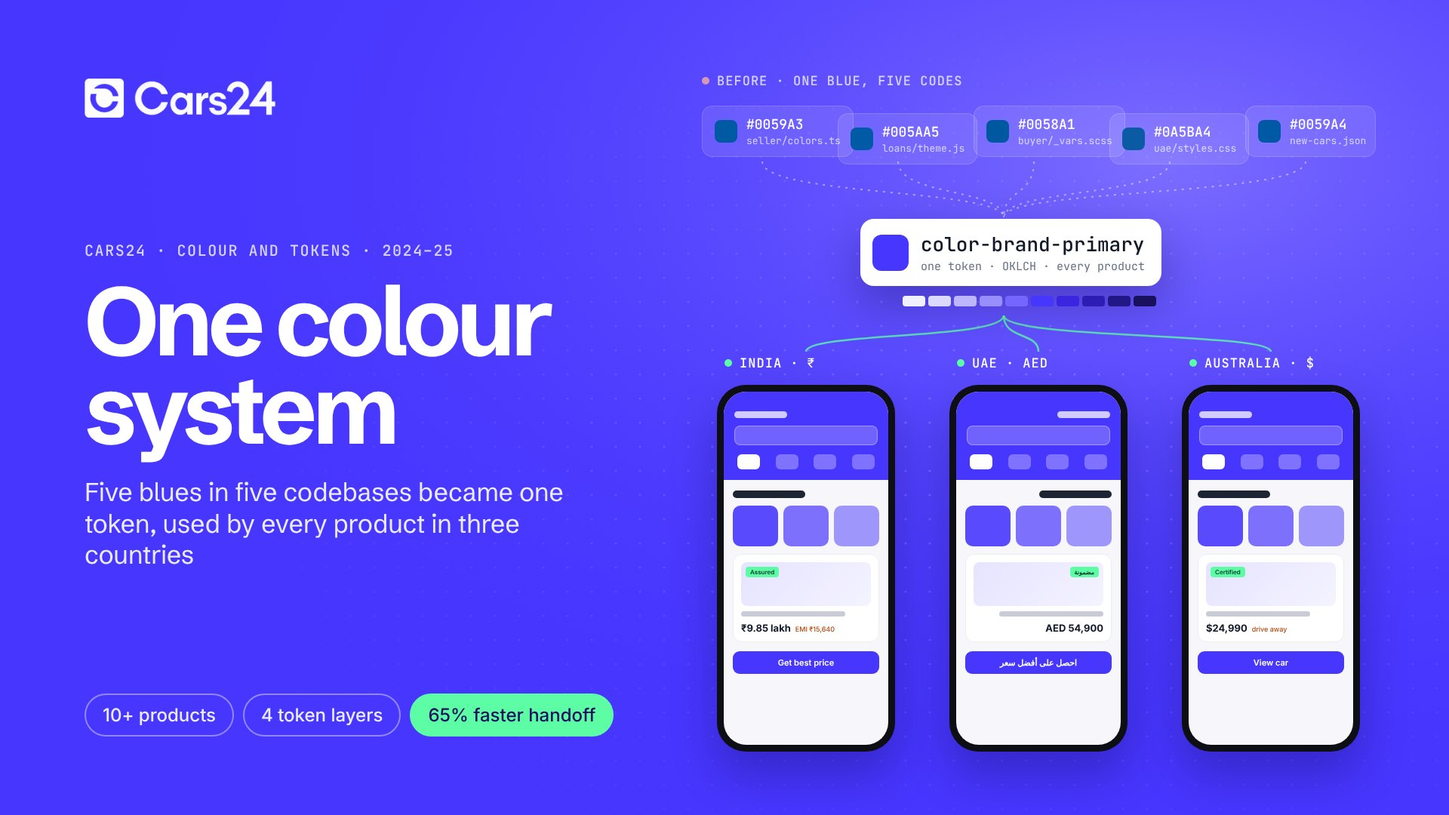
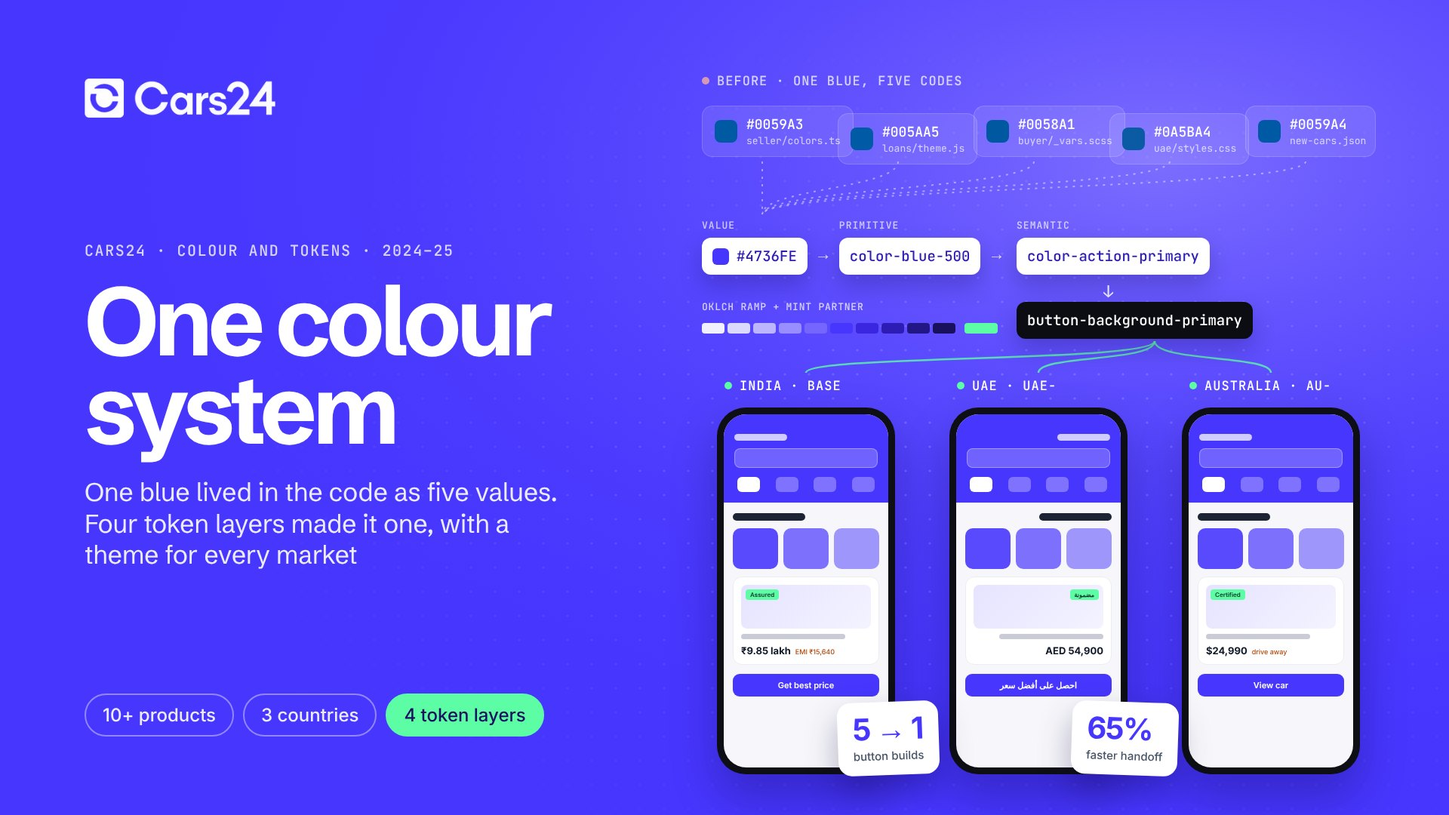
Reorder the case studies and show the real tokens on the colour card
Case studies now run: LEGO, Jarvis (Cardinal Health), Riyadh Air design
system, pattern library, colour system, governance, then Riyadh Air
design operations. The order drives Home, Work, Experience and each
case study's "Next case studies".

The colour system card now shows what's inside the case study: the five
old blues feed the real four-layer chain (#4736FE → color-blue-500 →
color-action-primary → button-background-primary), the OKLCH ramp with
its mint partner, the theme for each market (base, uae-, au-), and the
results (5 → 1 button builds, 65% faster handoff).

Claude-Session: https://claude.ai/code/session_01QAnL3MhnS9saJHDLA9Mmcj

Changed region(s): [[0.4688, 0.2139, 0.9375, 1.0], [0.0625, 0.5806, 0.4062, 0.7028], [0.1875, 0.825, 0.4375, 0.9167]]

diff --git a/tools/covers/cars24_cards.html b/tools/covers/cars24_cards.html
@@ -121,6 +121,17 @@ img { display: block; }
 .pp .blk2 { margin: 0 14px; position: relative; }
 .pp .blk2.wf { height: auto; padding: 10px; background: #fff; border: 1.5px dashed transparent; }
 .tagl { font: 500 15px "JetBrains Mono"; padding: 7px 12px; border-radius: 8px; background: #0b0d12; color: #9de7c8; white-space: nowrap; z-index: 4; }
+
+.lay { display: grid; grid-template-columns: repeat(4, auto); gap: 0; align-items: end; z-index: 3; }
+.lay > div { display: grid; gap: 8px; }
+.lay span { font: 500 13px "JetBrains Mono"; letter-spacing: .08em; text-transform: uppercase; opacity: .7; }
+.lay code { font: 500 19px "JetBrains Mono"; padding: 12px 14px; border-radius: 12px; background: #fff; color: #2e1db4; white-space: nowrap; box-shadow: 0 14px 30px rgb(10 0 60 / .22); display: flex; align-items: center; gap: 10px; }
+.lay code i { width: 22px; height: 22px; border-radius: 6px; background: #4736fe; }
+.lay .ar { align-self: end; padding: 0 10px 14px; font: 500 22px Inter; opacity: .8; }
+.kpi { border-radius: 18px; background: #fff; color: #101828; padding: 16px 20px; box-shadow: 0 20px 44px rgb(10 0 60 / .3); z-index: 4; }
+.kpi b { display: block; font: 700 40px/1 Inter; letter-spacing: -.04em; color: #4736fe; }
+.kpi span { display: block; font: 500 15px Inter; color: #475467; margin-top: 6px; }
+.tagk { font: 500 13px "JetBrains Mono"; padding: 5px 9px; border-radius: 6px; background: #0b0d12; color: #5dfda6; white-space: nowrap; z-index: 4; }
 </style>
 </head>
 <body>
@@ -138,8 +149,8 @@ img { display: block; }
   <svg class="pat" aria-hidden="true" id="tlines" style="z-index:1"></svg>
   <div class="col">
     <img class="logo" src="../../assets/logos/wordmark-cars24.png" alt="">
-    <div class="mid"><p class="eyebrow">CARS24 · Colour and tokens · 2024–25</p><h1>One colour system</h1><p class="sub">Five blues in five codebases became one token, used by every product in three countries</p></div>
-    <div class="row"><span class="chip" style="border-color:rgb(255 255 255 / .45)">10+ products</span><span class="chip" style="border-color:rgb(255 255 255 / .45)">4 token layers</span><span class="chip solid" style="background:#5dfda6;border-color:#5dfda6;color:#1a1060">65% faster handoff</span></div>
+    <div class="mid"><p class="eyebrow">CARS24 · Colour and tokens · 2024–25</p><h1>One colour system</h1><p class="sub">One blue lived in the code as five values. Four token layers made it one, with a theme for every market</p></div>
+    <div class="row"><span class="chip" style="border-color:rgb(255 255 255 / .45)">10+ products</span><span class="chip" style="border-color:rgb(255 255 255 / .45)">3 countries</span><span class="chip solid" style="background:#5dfda6;border-color:#5dfda6;color:#1a1060">4 token layers</span></div>
   </div>
   <div class="mkt" style="left:930px;top:96px;opacity:.75"><i style="background:#ffb4a1"></i>Before · one blue, five codes</div>
   <div class="hex" style="left:930px;top:140px"><i style="background:#0059A3"></i><div><b>#0059A3</b><small>seller/colors.ts</small></div></div>
@@ -147,14 +158,30 @@ img { display: block; }
   <div class="hex" style="left:1290px;top:140px"><i style="background:#0058A1"></i><div><b>#0058A1</b><small>buyer/_vars.scss</small></div></div>
   <div class="hex" style="left:1470px;top:150px"><i style="background:#0A5BA4"></i><div><b>#0A5BA4</b><small>uae/styles.css</small></div></div>
   <div class="hex" style="left:1650px;top:140px;padding-right:12px"><i style="background:#0059A4"></i><div><b>#0059A4</b><small>new-cars.json</small></div></div>
-  <div class="tokpill" style="left:1140px;top:290px"><i></i><div><b>color-brand-primary</b><small>one token · OKLCH · every product</small></div></div>
-  <div class="mramp" id="mramp" style="left:1196px;top:392px"></div>
-  <div class="mkt" style="left:960px;top:470px"><i></i>India · ₹</div>
-  <div class="mkt" style="left:1268px;top:470px"><i></i>UAE · AED</div>
-  <div class="mkt" style="left:1576px;top:470px"><i></i>Australia · $</div>
-  <div class="mp" style="left:950px;top:510px"><div class="sc"><div class="hd"><div class="loc"></div><div class="srch"></div><div class="tabs"><i></i><i></i><i></i><i></i></div></div><div class="bd"><div class="h"></div><div class="tiles"><i></i><i></i><i></i></div><div class="lc"><div class="im"><b>Assured</b></div><div class="t"></div><div class="pr">₹9.85 lakh<span>EMI ₹15,640</span></div></div><div class="cta">Get best price</div></div></div></div>
-  <div class="mp" style="left:1258px;top:510px"><div class="sc"><div class="hd"><div class="loc" style="margin-left:auto"></div><div class="srch"></div><div class="tabs"><i></i><i></i><i></i><i></i></div></div><div class="bd"><div class="h" style="margin-left:auto"></div><div class="tiles"><i></i><i></i><i></i></div><div class="lc" dir="rtl"><div class="im"><b style="left:auto;right:6px">مضمونة</b></div><div class="t"></div><div class="pr" style="font-family:Inter">AED 54,900</div></div><div class="cta">احصل على أفضل سعر</div></div></div></div>
-  <div class="mp" style="left:1566px;top:510px"><div class="sc"><div class="hd"><div class="loc"></div><div class="srch"></div><div class="tabs"><i></i><i></i><i></i><i></i></div></div><div class="bd"><div class="h"></div><div class="tiles"><i></i><i></i><i></i></div><div class="lc"><div class="im"><b>Certified</b></div><div class="t"></div><div class="pr">$24,990<span>drive away</span></div></div><div class="cta">View car</div></div></div></div>
+  <div class="lay" style="left:930px;top:290px;color:#fff">
+    <div><span>Value</span><code><i></i>#4736FE</code></div><div class="ar">→</div>
+    <div><span>Primitive</span><code>color-blue-500</code></div><div class="ar">→</div>
+  </div>
+  <div class="lay" style="left:1300px;top:290px;color:#fff">
+    <div style="visibility:hidden"><span>x</span><code>x</code></div>
+  </div>
+  <div class="lay" style="left:1347px;top:290px;color:#fff">
+    <div><span>Semantic</span><code>color-action-primary</code></div>
+  </div>
+  <div class="mkt" style="left:1462px;top:372px;font-size:22px;opacity:.85">↓</div>
+  <div class="lay" style="left:1347px;top:400px;color:#fff">
+    <div><code style="color:#fff;background:#0b0d12">button-background-primary</code></div>
+  </div>
+  <div class="mkt" style="left:930px;top:398px;font-size:13px;opacity:.75">OKLCH ramp + mint partner</div>
+  <div class="mramp" id="mramp" style="left:930px;top:428px"></div>
+  <div class="mkt" style="left:960px;top:500px"><i></i>India · base</div>
+  <div class="mkt" style="left:1268px;top:500px"><i></i>UAE · uae-</div>
+  <div class="mkt" style="left:1576px;top:500px"><i></i>Australia · au-</div>
+  <div class="mp" style="left:950px;top:540px"><div class="sc"><div class="hd"><div class="loc"></div><div class="srch"></div><div class="tabs"><i></i><i></i><i></i><i></i></div></div><div class="bd"><div class="h"></div><div class="tiles"><i></i><i></i><i></i></div><div class="lc"><div class="im"><b>Assured</b></div><div class="t"></div><div class="pr">₹9.85 lakh<span>EMI ₹15,640</span></div></div><div class="cta">Get best price</div></div></div></div>
+  <div class="mp" style="left:1258px;top:540px"><div class="sc"><div class="hd"><div class="loc" style="margin-left:auto"></div><div class="srch"></div><div class="tabs"><i></i><i></i><i></i><i></i></div></div><div class="bd"><div class="h" style="margin-left:auto"></div><div class="tiles"><i></i><i></i><i></i></div><div class="lc" dir="rtl"><div class="im"><b style="left:auto;right:6px">مضمونة</b></div><div class="t"></div><div class="pr" style="font-family:Inter">AED 54,900</div></div><div class="cta">احصل على أفضل سعر</div></div></div></div>
+  <div class="mp" style="left:1566px;top:540px"><div class="sc"><div class="hd"><div class="loc"></div><div class="srch"></div><div class="tabs"><i></i><i></i><i></i><i></i></div></div><div class="bd"><div class="h"></div><div class="tiles"><i></i><i></i><i></i></div><div class="lc"><div class="im"><b>Certified</b></div><div class="t"></div><div class="pr">$24,990<span>drive away</span></div></div><div class="cta">View car</div></div></div></div>
+  <div class="kpi" style="left:1110px;top:930px;transform:rotate(-2deg)"><b>5 → 1</b><span>button builds</span></div>
+  <div class="kpi" style="left:1420px;top:930px;transform:rotate(2deg)"><b>65%</b><span>faster handoff</span></div>
 </section>
 
 <!-- ======================= Governance ======================= -->
@@ -254,11 +281,11 @@ function el(svg, tag, a) { var e = document.createElementNS(NS, tag); for (var k
 /* token story: five codes → one token → three markets */
 (function () {
   var r = document.getElementById("mramp");
-  if (r) r.innerHTML = steps.map(function (st) { return '<i style="background:' + st[1] + '"></i>'; }).join("");
+  if (r) r.innerHTML = steps.map(function (st) { return '<i style="background:' + st[1] + '"></i>'; }).join("") + '<i style="background:#5dfda6;width:44px;margin-left:8px"></i>';
   var s = document.getElementById("tlines"), g = el(s, "g", { fill: "none", stroke: "#fff", "stroke-width": "2", "stroke-opacity": ".45", "stroke-dasharray": "3 7" });
-  [1010, 1190, 1370, 1550, 1730].forEach(function (x) { el(g, "path", { d: "M" + x + " 214 C" + x + " 260 1330 250 1330 288" }); });
+  [1010, 1190, 1370, 1550, 1730].forEach(function (x) { el(g, "path", { d: "M" + x + " 214 C" + x + " 250 1010 250 1010 284" }); });
   var g2 = el(s, "g", { fill: "none", stroke: "#5dfda6", "stroke-width": "2.5", "stroke-opacity": ".8" });
-  [1068, 1376, 1684].forEach(function (x) { el(g2, "path", { d: "M1330 418 C1330 450 " + x + " 440 " + x + " 466" }); });
+  [1068, 1376, 1684].forEach(function (x) { el(g2, "path", { d: "M1530 452 C1530 480 " + x + " 470 " + x + " 494" }); });
 })();
 /* pattern library: link families to the page */
 (function () {

diff --git a/index.html b/index.html
@@ -51,19 +51,7 @@
 <div class="trust"><p>Built by the team behind the design systems at</p><ul><li><img src="assets/logos/wordmark-jpmc.png" alt="JPMorgan Chase" style="height:17px" loading="lazy"></li><li><img src="assets/logos/wordmark-ibm.png" alt="IBM" style="height:24px" loading="lazy"></li><li><img src="assets/logos/wordmark-cars24.png" alt="CARS24" style="height:20px" loading="lazy"></li></ul></div>
 
 <h2 class="label" id="work">select work:</h2>
-<div class="frames"><a class="frame" href="work/cars24-tokens.html" style="--f:#4736fe;--ft:#ffffff">
-      <div class="frame-media"><img src="assets/work/tokens/card.jpg" alt="" loading="lazy" width="1800" height="1238"></div>
-      <h3>CARS24: one colour system for 10+ products in three countries</h3>
-      <div class="frame-meta"><span class="kind">Colour, Tokens, Architecture</span></div>
-    </a><a class="frame" href="work/cars24-governance.html" style="--f:#f1efff;--ft:#0b0d12">
-      <div class="frame-media"><img src="assets/work/governance/card.jpg" alt="" loading="lazy" width="1800" height="1238"></div>
-      <h3>CARS24: how the design system team stopped being the bottleneck</h3>
-      <div class="frame-meta"><span class="kind">Governance, Operations</span></div>
-    </a><a class="frame" href="work/cars24-pattern-library.html" style="--f:#9de7c8;--ft:#0b0d12">
-      <div class="frame-media"><img src="assets/work/patterns/card.jpg" alt="" loading="lazy" width="1800" height="1238"></div>
-      <h3>CARS24: a pattern library that builds pages from tested blocks</h3>
-      <div class="frame-meta"><span class="kind">Patterns, CMS, Adoption</span></div>
-    </a><a class="frame" href="work/cars24-lego.html" style="--f:#4736fe;--ft:#ffffff">
+<div class="frames"><a class="frame" href="work/cars24-lego.html" style="--f:#4736fe;--ft:#ffffff">
       <div class="frame-media"><img src="assets/work/cars24-lego/cover.jpg" alt="" loading="lazy" width="1800" height="1238"></div>
       <h3>CARS24: LEGO, a component system teams chose to build with</h3>
       <div class="frame-meta"><span class="kind">Components, Research, Adoption</span></div>
@@ -75,6 +63,18 @@
       <div class="frame-media"><img src="assets/work/ibm-riyadh-air/cover.jpg" alt="" loading="lazy" width="1800" height="1238"></div>
       <h3>Riyadh Air: a design system for an airline that started from zero</h3>
       <div class="frame-meta"><span class="kind">Foundations, Components, Localisation</span></div>
+    </a><a class="frame" href="work/cars24-pattern-library.html" style="--f:#9de7c8;--ft:#0b0d12">
+      <div class="frame-media"><img src="assets/work/patterns/card.jpg" alt="" loading="lazy" width="1800" height="1238"></div>
+      <h3>CARS24: a pattern library that builds pages from tested blocks</h3>
+      <div class="frame-meta"><span class="kind">Patterns, CMS, Adoption</span></div>
+    </a><a class="frame" href="work/cars24-tokens.html" style="--f:#4736fe;--ft:#ffffff">
+      <div class="frame-media"><img src="assets/work/tokens/card.jpg" alt="" loading="lazy" width="1800" height="1238"></div>
+      <h3>CARS24: one colour system for 10+ products in three countries</h3>
+      <div class="frame-meta"><span class="kind">Colour, Tokens, Architecture</span></div>
+    </a><a class="frame" href="work/cars24-governance.html" style="--f:#f1efff;--ft:#0b0d12">
+      <div class="frame-media"><img src="assets/work/governance/card.jpg" alt="" loading="lazy" width="1800" height="1238"></div>
+      <h3>CARS24: how the design system team stopped being the bottleneck</h3>
+      <div class="frame-meta"><span class="kind">Governance, Operations</span></div>
     </a><a class="frame" href="work/ibm-riyadh-air-ops.html" style="--f:#dad8fc;--ft:#0b0d12">
       <div class="frame-media"><img src="assets/work/ibm-riyadh-air-ops/cover.jpg" alt="" loading="lazy" width="1800" height="1238"></div>
       <h3>Riyadh Air: three companies, one design system, and who decides what ships</h3>
@@ -107,7 +107,7 @@
       <header><span class="ltile"><img src="assets/logos/cars24.png" alt="CARS24" width="200" height="200" loading="lazy"></span><div><h3>CARS24</h3><p>Design Systems Lead · 2024–25</p></div></header>
       <p class="xp-stat"><strong>10+</strong> products on one token system, in 3 countries</p>
       <p class="xp-what">Led the design system for 70+ designers and 200+ engineers: a new palette and token architecture for the rebrand, governance, and a pattern library.</p>
-      <nav aria-label="CARS24 projects"><a href="work/cars24-tokens.html">One colour system for 10+ products in three countries</a><a href="work/cars24-governance.html">How the design system team stopped being the bottleneck</a><a href="work/cars24-pattern-library.html">A pattern library that builds pages from tested blocks</a><a href="work/cars24-lego.html">LEGO, a component system teams chose to build with</a><a href="work/cars24-consumer.html">A token-driven component library for consumer products</a><a href="work/cars24-internal-tools.html">A design system for internal tools at enterprise scale</a></nav>
+      <nav aria-label="CARS24 projects"><a href="work/cars24-lego.html">LEGO, a component system teams chose to build with</a><a href="work/cars24-pattern-library.html">A pattern library that builds pages from tested blocks</a><a href="work/cars24-tokens.html">One colour system for 10+ products in three countries</a><a href="work/cars24-governance.html">How the design system team stopped being the bottleneck</a><a href="work/cars24-consumer.html">A token-driven component library for consumer products</a><a href="work/cars24-internal-tools.html">A design system for internal tools at enterprise scale</a></nav>
     </article><article class="xp">
       <header><span class="ltile"><img src="assets/logos/ibm.png" alt="IBM" width="200" height="200" loading="lazy"></span><div><h3>IBM</h3><p>UX Designer, design systems · 2021–24</p></div></header>
       <p class="xp-stat"><strong>71</strong> components for an airline, 40+ for a pharmacy storefront</p>

diff --git a/work.html b/work.html
@@ -36,19 +36,7 @@
   </aside><main id="main" class="content">
 <h1 class="statement" id="case-studies">featured work</h1>
 <p class="sub muted">Full, interactive case studies: the problem, the decisions and the numbers.</p>
-<div class="frames" style="margin-top:20px"><a class="frame" href="work/cars24-tokens.html" style="--f:#4736fe;--ft:#ffffff">
-      <div class="frame-media"><img src="assets/work/tokens/card.jpg" alt="" loading="lazy" width="1800" height="1238"></div>
-      <h3>CARS24: one colour system for 10+ products in three countries</h3>
-      <div class="frame-meta"><span class="kind">Colour, Tokens, Architecture</span><span>2024–25</span></div>
-    </a><a class="frame" href="work/cars24-governance.html" style="--f:#f1efff;--ft:#0b0d12">
-      <div class="frame-media"><img src="assets/work/governance/card.jpg" alt="" loading="lazy" width="1800" height="1238"></div>
-      <h3>CARS24: how the design system team stopped being the bottleneck</h3>
-      <div class="frame-meta"><span class="kind">Governance, Operations</span><span>2025</span></div>
-    </a><a class="frame" href="work/cars24-pattern-library.html" style="--f:#9de7c8;--ft:#0b0d12">
-      <div class="frame-media"><img src="assets/work/patterns/card.jpg" alt="" loading="lazy" width="1800" height="1238"></div>
-      <h3>CARS24: a pattern library that builds pages from tested blocks</h3>
-      <div class="frame-meta"><span class="kind">Patterns, CMS, Adoption</span><span>2025</span></div>
-    </a><a class="frame" href="work/cars24-lego.html" style="--f:#4736fe;--ft:#ffffff">
+<div class="frames" style="margin-top:20px"><a class="frame" href="work/cars24-lego.html" style="--f:#4736fe;--ft:#ffffff">
       <div class="frame-media"><img src="assets/work/cars24-lego/cover.jpg" alt="" loading="lazy" width="1800" height="1238"></div>
       <h3>CARS24: LEGO, a component system teams chose to build with</h3>
       <div class="frame-meta"><span class="kind">Components, Research, Adoption</span><span>2025</span></div>
@@ -60,6 +48,18 @@
       <div class="frame-media"><img src="assets/work/ibm-riyadh-air/cover.jpg" alt="" loading="lazy" width="1800" height="1238"></div>
       <h3>Riyadh Air: a design system for an airline that started from zero</h3>
       <div class="frame-meta"><span class="kind">Foundations, Components, Localisation</span><span>2023–24</span></div>
+    </a><a class="frame" href="work/cars24-pattern-library.html" style="--f:#9de7c8;--ft:#0b0d12">
+      <div class="frame-media"><img src="assets/work/patterns/card.jpg" alt="" loading="lazy" width="1800" height="1238"></div>
+      <h3>CARS24: a pattern library that builds pages from tested blocks</h3>
+      <div class="frame-meta"><span class="kind">Patterns, CMS, Adoption</span><span>2025</span></div>
+    </a><a class="frame" href="work/cars24-tokens.html" style="--f:#4736fe;--ft:#ffffff">
+      <div class="frame-media"><img src="assets/work/tokens/card.jpg" alt="" loading="lazy" width="1800" height="1238"></div>
+      <h3>CARS24: one colour system for 10+ products in three countries</h3>
+      <div class="frame-meta"><span class="kind">Colour, Tokens, Architecture</span><span>2024–25</span></div>
+    </a><a class="frame" href="work/cars24-governance.html" style="--f:#f1efff;--ft:#0b0d12">
+      <div class="frame-media"><img src="assets/work/governance/card.jpg" alt="" loading="lazy" width="1800" height="1238"></div>
+      <h3>CARS24: how the design system team stopped being the bottleneck</h3>
+      <div class="frame-meta"><span class="kind">Governance, Operations</span><span>2025</span></div>
     </a><a class="frame" href="work/ibm-riyadh-air-ops.html" style="--f:#dad8fc;--ft:#0b0d12">
       <div class="frame-media"><img src="assets/work/ibm-riyadh-air-ops/cover.jpg" alt="" loading="lazy" width="1800" height="1238"></div>
       <h3>Riyadh Air: three companies, one design system, and who decides what ships</h3>

diff --git a/clients.html b/clients.html
@@ -43,7 +43,7 @@
 <div class="xrows"><article class="xrow" id="cars24">
       <header><span class="ltile" style="--s:88px"><img src="assets/logos/cars24.png" alt="CARS24" width="200" height="200" loading="lazy"></span><div><h2>CARS24</h2><p>Design Systems Lead · 2024–25</p><p class="muted">One of India's largest platforms for buying and selling used cars, with loans, insurance and servicing, in India, the UAE and Australia.</p></div></header>
       <div class="xfacts"><div><strong>70+ / 200+</strong><span>designers and engineers on one system</span></div><div><strong>10+</strong><span>product lines, 3 countries</span></div><div><strong>65%</strong><span>faster handoff after the token rebuild</span></div></div>
-      <div class="xprojs"><a href="work/cars24-tokens.html"><img src="assets/work/tokens/card.jpg" alt="" loading="lazy"><span>One colour system for 10+ products in three countries</span></a><a href="work/cars24-governance.html"><img src="assets/work/governance/card.jpg" alt="" loading="lazy"><span>How the design system team stopped being the bottleneck</span></a><a href="work/cars24-pattern-library.html"><img src="assets/work/patterns/card.jpg" alt="" loading="lazy"><span>A pattern library that builds pages from tested blocks</span></a><a href="work/cars24-lego.html"><img src="assets/work/cars24-lego/cover.jpg" alt="" loading="lazy"><span>LEGO, a component system teams chose to build with</span></a><a href="work/cars24-consumer.html"><img src="assets/work/cars24-consumer/cover.jpg" alt="" loading="lazy"><span>A token-driven component library for consumer products</span></a><a href="work/cars24-internal-tools.html"><img src="assets/work/cars24-internal-tools/cover.jpg" alt="" loading="lazy"><span>A design system for internal tools at enterprise scale</span></a></div>
+      <div class="xprojs"><a href="work/cars24-lego.html"><img src="assets/work/cars24-lego/cover.jpg" alt="" loading="lazy"><span>LEGO, a component system teams chose to build with</span></a><a href="work/cars24-pattern-library.html"><img src="assets/work/patterns/card.jpg" alt="" loading="lazy"><span>A pattern library that builds pages from tested blocks</span></a><a href="work/cars24-tokens.html"><img src="assets/work/tokens/card.jpg" alt="" loading="lazy"><span>One colour system for 10+ products in three countries</span></a><a href="work/cars24-governance.html"><img src="assets/work/governance/card.jpg" alt="" loading="lazy"><span>How the design system team stopped being the bottleneck</span></a><a href="work/cars24-consumer.html"><img src="assets/work/cars24-consumer/cover.jpg" alt="" loading="lazy"><span>A token-driven component library for consumer products</span></a><a href="work/cars24-internal-tools.html"><img src="assets/work/cars24-internal-tools/cover.jpg" alt="" loading="lazy"><span>A design system for internal tools at enterprise scale</span></a></div>
     </article><article class="xrow" id="ibm">
       <header><span class="ltile" style="--s:88px"><img src="assets/logos/ibm.png" alt="IBM" width="200" height="200" loading="lazy"></span><div><h2>IBM</h2><p>UX Designer, design systems · 2021–24</p><p class="muted">Enterprise software and consulting. Design systems for IBM clients including Cardinal Health and Riyadh Air.</p></div></header>
       <div class="xfacts"><div><strong>3.5 yrs</strong><span>building and running design systems</span></div><div><strong>40+ / 71</strong><span>components for Cardinal Health and Riyadh Air</span></div><div><strong>1 → 7</strong><span>people on the Cardinal Health system in a year</span></div></div>

diff --git a/work/ibm-cardinal-health.html b/work/ibm-cardinal-health.html
@@ -166,7 +166,7 @@
   <section class="sc-end"><div class="sc-in">
     <p class="sc-credit">Led by Aniket Pandey as design system owner at IBM (2022–23), with two IBM India designers, the IBM Columbus studio, and Cardinal Health's product, engineering and QA teams. This is IBM client work done as an employee, not Layer One client work. Images belong to Cardinal Health and IBM and are shown for portfolio purposes; screens use sample data. Tickets and changelog entries marked illustrative are examples in the format the team used.</p>
     <h2 class="nx-h">Next case studies</h2>
-    <div class="nxs"><a class="nx" href="ibm-riyadh-air.html" style="--f:#240852;--ft:#ffffff"><img src="../assets/work/ibm-riyadh-air/cover.jpg" alt="" loading="lazy"><span>Foundations, Components, Localisation</span><h3>A design system for an airline that started from zero</h3></a><a class="nx" href="ibm-riyadh-air-ops.html" style="--f:#dad8fc;--ft:#0b0d12"><img src="../assets/work/ibm-riyadh-air-ops/cover.jpg" alt="" loading="lazy"><span>Governance, Contribution, Rituals</span><h3>Three companies, one design system, and who decides what ships</h3></a></div>
+    <div class="nxs"><a class="nx" href="ibm-riyadh-air.html" style="--f:#240852;--ft:#ffffff"><img src="../assets/work/ibm-riyadh-air/cover.jpg" alt="" loading="lazy"><span>Foundations, Components, Localisation</span><h3>A design system for an airline that started from zero</h3></a><a class="nx" href="cars24-pattern-library.html" style="--f:#9de7c8;--ft:#0b0d12"><img src="../assets/work/patterns/card.jpg" alt="" loading="lazy"><span>Patterns, CMS, Adoption</span><h3>A pattern library that builds pages from tested blocks</h3></a></div>
   </div></section>
 </main>
 <dialog class="lightbox" data-lb><button type="button" class="lb-x" aria-label="Close">Close</button><img alt=""><p></p></dialog><script src="../assets/site.js?v=e943e2aa" defer></script>

diff --git a/work/ibm-riyadh-air-ops.html b/work/ibm-riyadh-air-ops.html
@@ -89,7 +89,7 @@
   <section class="sc-end"><div class="sc-in">
     <p class="sc-credit">Told by Aniket Pandey, who worked on this as a design system designer at IBM (2023–24), with IBM design and engineering, Riyadh Air's design team and business owners, and Publicis Sapient. “We” is the IBM design system team. This is IBM client work done as an employee, not Layer One client work. Diagrams belong to Riyadh Air and IBM and are shown for portfolio purposes.</p>
     <h2 class="nx-h">Next case studies</h2>
-    <div class="nxs"><a class="nx" href="cars24-tokens.html" style="--f:#4736fe;--ft:#ffffff"><img src="../assets/work/tokens/card.jpg" alt="" loading="lazy"><span>Colour, Tokens, Architecture</span><h3>One colour system for 10+ products in three countries</h3></a><a class="nx" href="cars24-governance.html" style="--f:#f1efff;--ft:#0b0d12"><img src="../assets/work/governance/card.jpg" alt="" loading="lazy"><span>Governance, Operations</span><h3>How the design system team stopped being the bottleneck</h3></a></div>
+    <div class="nxs"><a class="nx" href="cars24-lego.html" style="--f:#4736fe;--ft:#ffffff"><img src="../assets/work/cars24-lego/cover.jpg" alt="" loading="lazy"><span>Components, Research, Adoption</span><h3>LEGO, a component system teams chose to build with</h3></a><a class="nx" href="ibm-cardinal-health.html" style="--f:#e41f35;--ft:#ffffff"><img src="../assets/work/ibm-cardinal-health/cover.jpg" alt="" loading="lazy"><span>Foundations, Tokens, Components, Operations</span><h3>Jarvis, the design system behind a new pharmacy storefront</h3></a></div>
   </div></section>
 </main>
 <dialog class="lightbox" data-lb><button type="button" class="lb-x" aria-label="Close">Close</button><img alt=""><p></p></dialog><script src="../assets/site.js?v=e943e2aa" defer></script>

diff --git a/work/ibm-riyadh-air.html b/work/ibm-riyadh-air.html
@@ -155,7 +155,7 @@
   <section class="sc-end"><div class="sc-in">
     <p class="sc-credit">Aniket Pandey worked on this as a design system designer at IBM (2023–24), with the IBM design team, IBM engineering, Publicis Sapient and Riyadh Air's product, design and engineering teams. This is IBM client work done as an employee, not Layer One client work. Images belong to Riyadh Air and IBM and are shown for portfolio purposes.</p>
     <h2 class="nx-h">Next case studies</h2>
-    <div class="nxs"><a class="nx" href="ibm-riyadh-air-ops.html" style="--f:#dad8fc;--ft:#0b0d12"><img src="../assets/work/ibm-riyadh-air-ops/cover.jpg" alt="" loading="lazy"><span>Governance, Contribution, Rituals</span><h3>Three companies, one design system, and who decides what ships</h3></a><a class="nx" href="cars24-tokens.html" style="--f:#4736fe;--ft:#ffffff"><img src="../assets/work/tokens/card.jpg" alt="" loading="lazy"><span>Colour, Tokens, Architecture</span><h3>One colour system for 10+ products in three countries</h3></a></div>
+    <div class="nxs"><a class="nx" href="cars24-pattern-library.html" style="--f:#9de7c8;--ft:#0b0d12"><img src="../assets/work/patterns/card.jpg" alt="" loading="lazy"><span>Patterns, CMS, Adoption</span><h3>A pattern library that builds pages from tested blocks</h3></a><a class="nx" href="cars24-tokens.html" style="--f:#4736fe;--ft:#ffffff"><img src="../assets/work/tokens/card.jpg" alt="" loading="lazy"><span>Colour, Tokens, Architecture</span><h3>One colour system for 10+ products in three countries</h3></a></div>
   </div></section>
 </main>
 <dialog class="lightbox" data-lb><button type="button" class="lb-x" aria-label="Close">Close</button><img alt=""><p></p></dialog><script src="../assets/site.js?v=e943e2aa" defer></script>

diff --git a/work/cars24-pattern-library.html b/work/cars24-pattern-library.html
@@ -106,7 +106,7 @@
     <div class="cs-cta"><div><h2>Need this for your product?</h2><p>We do this work for product teams now. Start with a two-week audit.</p></div>
       <div class="btn-row"><a class="pill pill--accent" href="../pricing.html">See pricing</a><a class="pill" href="../contact.html">Start a project</a></div></div>
     <h2 class="nx-h">Next case studies</h2>
-    <div class="nxs"><a class="nx" href="cars24-lego.html" style="--f:#4736fe;--ft:#ffffff"><img src="../assets/work/cars24-lego/cover.jpg" alt="" loading="lazy"><span>Components, Research, Adoption</span><h3>LEGO, a component system teams chose to build with</h3></a><a class="nx" href="ibm-cardinal-health.html" style="--f:#e41f35;--ft:#ffffff"><img src="../assets/work/ibm-cardinal-health/cover.jpg" alt="" loading="lazy"><span>Foundations, Tokens, Components, Operations</span><h3>Jarvis, the design system behind a new pharmacy storefront</h3></a></div>
+    <div class="nxs"><a class="nx" href="cars24-tokens.html" style="--f:#4736fe;--ft:#ffffff"><img src="../assets/work/tokens/card.jpg" alt="" loading="lazy"><span>Colour, Tokens, Architecture</span><h3>One colour system for 10+ products in three countries</h3></a><a class="nx" href="cars24-governance.html" style="--f:#f1efff;--ft:#0b0d12"><img src="../assets/work/governance/card.jpg" alt="" loading="lazy"><span>Governance, Operations</span><h3>How the design system team stopped being the bottleneck</h3></a></div>
   </section>
 </main>
 <dialog class="lightbox" data-lb><button type="button" class="lb-x" aria-label="Close">Close</button><img alt=""><p></p></dialog><script src="../assets/site.js?v=e943e2aa" defer></script>

diff --git a/work/cars24-tokens.html b/work/cars24-tokens.html
@@ -128,7 +128,7 @@
     <div class="cs-cta"><div><h2>Need this for your product?</h2><p>We do this work for product teams now. Start with a two-week audit.</p></div>
       <div class="btn-row"><a class="pill pill--accent" href="../pricing.html">See pricing</a><a class="pill" href="../contact.html">Start a project</a></div></div>
     <h2 class="nx-h">Next case studies</h2>
-    <div class="nxs"><a class="nx" href="cars24-governance.html" style="--f:#f1efff;--ft:#0b0d12"><img src="../assets/work/governance/card.jpg" alt="" loading="lazy"><span>Governance, Operations</span><h3>How the design system team stopped being the bottleneck</h3></a><a class="nx" href="cars24-pattern-library.html" style="--f:#9de7c8;--ft:#0b0d12"><img src="../assets/work/patterns/card.jpg" alt="" loading="lazy"><span>Patterns, CMS, Adoption</span><h3>A pattern library that builds pages from tested blocks</h3></a></div>
+    <div class="nxs"><a class="nx" href="cars24-governance.html" style="--f:#f1efff;--ft:#0b0d12"><img src="../assets/work/governance/card.jpg" alt="" loading="lazy"><span>Governance, Operations</span><h3>How the design system team stopped being the bottleneck</h3></a><a class="nx" href="ibm-riyadh-air-ops.html" style="--f:#dad8fc;--ft:#0b0d12"><img src="../assets/work/ibm-riyadh-air-ops/cover.jpg" alt="" loading="lazy"><span>Governance, Contribution, Rituals</span><h3>Three companies, one design system, and who decides what ships</h3></a></div>
   </section>
 </main>
 <dialog class="lightbox" data-lb><button type="button" class="lb-x" aria-label="Close">Close</button><img alt=""><p></p></dialog><script src="../assets/site.js?v=e943e2aa" defer></script>

diff --git a/work/cars24-governance.html b/work/cars24-governance.html
@@ -89,7 +89,7 @@
     <div class="cs-cta"><div><h2>Need this for your product?</h2><p>We do this work for product teams now. Start with a two-week audit.</p></div>
       <div class="btn-row"><a class="pill pill--accent" href="../pricing.html">See pricing</a><a class="pill" href="../contact.html">Start a project</a></div></div>
     <h2 class="nx-h">Next case studies</h2>
-    <div class="nxs"><a class="nx" href="cars24-pattern-library.html" style="--f:#9de7c8;--ft:#0b0d12"><img src="../assets/work/patterns/card.jpg" alt="" loading="lazy"><span>Patterns, CMS, Adoption</span><h3>A pattern library that builds pages from tested blocks</h3></a><a class="nx" href="cars24-lego.html" style="--f:#4736fe;--ft:#ffffff"><img src="../assets/work/cars24-lego/cover.jpg" alt="" loading="lazy"><span>Components, Research, Adoption</span><h3>LEGO, a component system teams chose to build with</h3></a></div>
+    <div class="nxs"><a class="nx" href="ibm-riyadh-air-ops.html" style="--f:#dad8fc;--ft:#0b0d12"><img src="../assets/work/ibm-riyadh-air-ops/cover.jpg" alt="" loading="lazy"><span>Governance, Contribution, Rituals</span><h3>Three companies, one design system, and who decides what ships</h3></a><a class="nx" href="cars24-lego.html" style="--f:#4736fe;--ft:#ffffff"><img src="../assets/work/cars24-lego/cover.jpg" alt="" loading="lazy"><span>Components, Research, Adoption</span><h3>LEGO, a component system teams chose to build with</h3></a></div>
   </section>
 </main>
 <dialog class="lightbox" data-lb><button type="button" class="lb-x" aria-label="Close">Close</button><img alt=""><p></p></dialog><script src="../assets/site.js?v=e943e2aa" defer></script>

diff --git a/work/cars24-consumer.html b/work/cars24-consumer.html
@@ -42,7 +42,7 @@
   <section class="cs-wrap cs-end">
     <div class="cs-cta"><div><h2>Need this for your product?</h2><p>Start with a two-week audit, $1,500 fixed.</p></div>
       <div class="btn-row"><a class="pill pill--accent" href="../pricing.html">See pricing</a><a class="pill" href="../contact.html">Start a project</a></div></div>
-    <h2 class="nx-h">More work</h2><div class="nxs"><a class="nx" href="cars24-tokens.html" style="--f:#4736fe;--ft:#ffffff"><img src="../assets/work/tokens/card.jpg" alt="" loading="lazy"><span>Colour, Tokens, Architecture</span><h3>One colour system for 10+ products in three countries</h3></a><a class="nx" href="cars24-governance.html" style="--f:#f1efff;--ft:#0b0d12"><img src="../assets/work/governance/card.jpg" alt="" loading="lazy"><span>Governance, Operations</span><h3>How the design system team stopped being the bottleneck</h3></a></div>
+    <h2 class="nx-h">More work</h2><div class="nxs"><a class="nx" href="cars24-lego.html" style="--f:#4736fe;--ft:#ffffff"><img src="../assets/work/cars24-lego/cover.jpg" alt="" loading="lazy"><span>Components, Research, Adoption</span><h3>LEGO, a component system teams chose to build with</h3></a><a class="nx" href="ibm-cardinal-health.html" style="--f:#e41f35;--ft:#ffffff"><img src="../assets/work/ibm-cardinal-health/cover.jpg" alt="" loading="lazy"><span>Foundations, Tokens, Components, Operations</span><h3>Jarvis, the design system behind a new pharmacy storefront</h3></a></div>
   </section>
 </main><script src="../assets/site.js?v=e943e2aa" defer></script>
 </body>

diff --git a/work/cars24-internal-tools.html b/work/cars24-internal-tools.html
@@ -42,7 +42,7 @@
   <section class="cs-wrap cs-end">
     <div class="cs-cta"><div><h2>Need this for your product?</h2><p>Start with a two-week audit, $1,500 fixed.</p></div>
       <div class="btn-row"><a class="pill pill--accent" href="../pricing.html">See pricing</a><a class="pill" href="../contact.html">Start a project</a></div></div>
-    <h2 class="nx-h">More work</h2><div class="nxs"><a class="nx" href="cars24-tokens.html" style="--f:#4736fe;--ft:#ffffff"><img src="../assets/work/tokens/card.jpg" alt="" loading="lazy"><span>Colour, Tokens, Architecture</span><h3>One colour system for 10+ products in three countries</h3></a><a class="nx" href="cars24-governance.html" style="--f:#f1efff;--ft:#0b0d12"><img src="../assets/work/governance/card.jpg" alt="" loading="lazy"><span>Governance, Operations</span><h3>How the design system team stopped being the bottleneck</h3></a></div>
+    <h2 class="nx-h">More work</h2><div class="nxs"><a class="nx" href="cars24-lego.html" style="--f:#4736fe;--ft:#ffffff"><img src="../assets/work/cars24-lego/cover.jpg" alt="" loading="lazy"><span>Components, Research, Adoption</span><h3>LEGO, a component system teams chose to build with</h3></a><a class="nx" href="ibm-cardinal-health.html" style="--f:#e41f35;--ft:#ffffff"><img src="../assets/work/ibm-cardinal-health/cover.jpg" alt="" loading="lazy"><span>Foundations, Tokens, Components, Operations</span><h3>Jarvis, the design system behind a new pharmacy storefront</h3></a></div>
   </section>
 </main><script src="../assets/site.js?v=e943e2aa" defer></script>
 </body>
